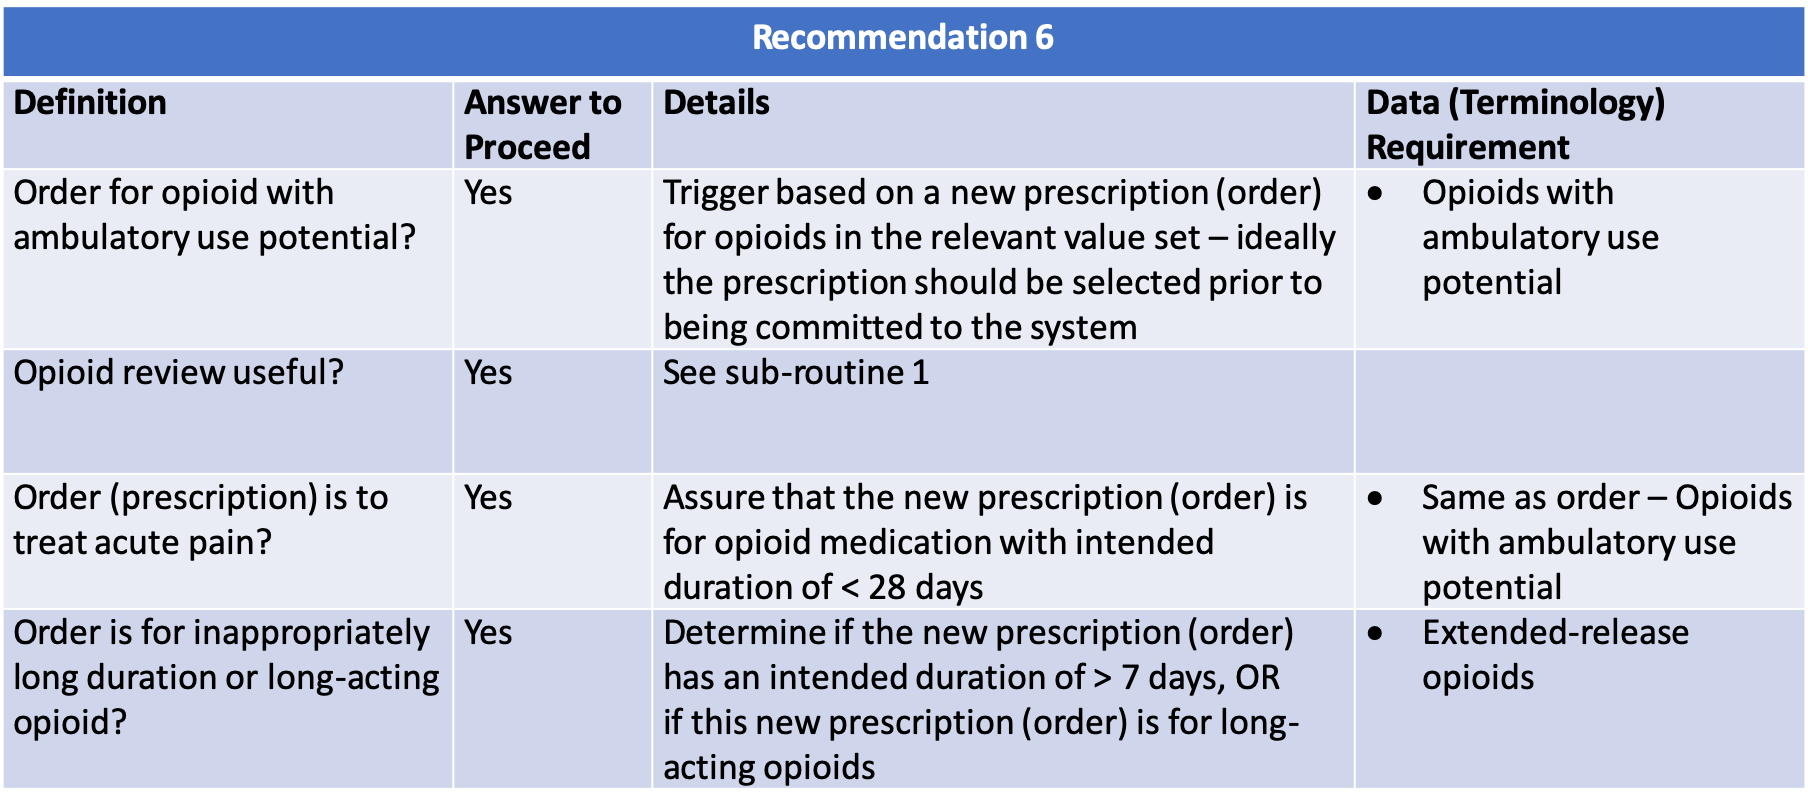
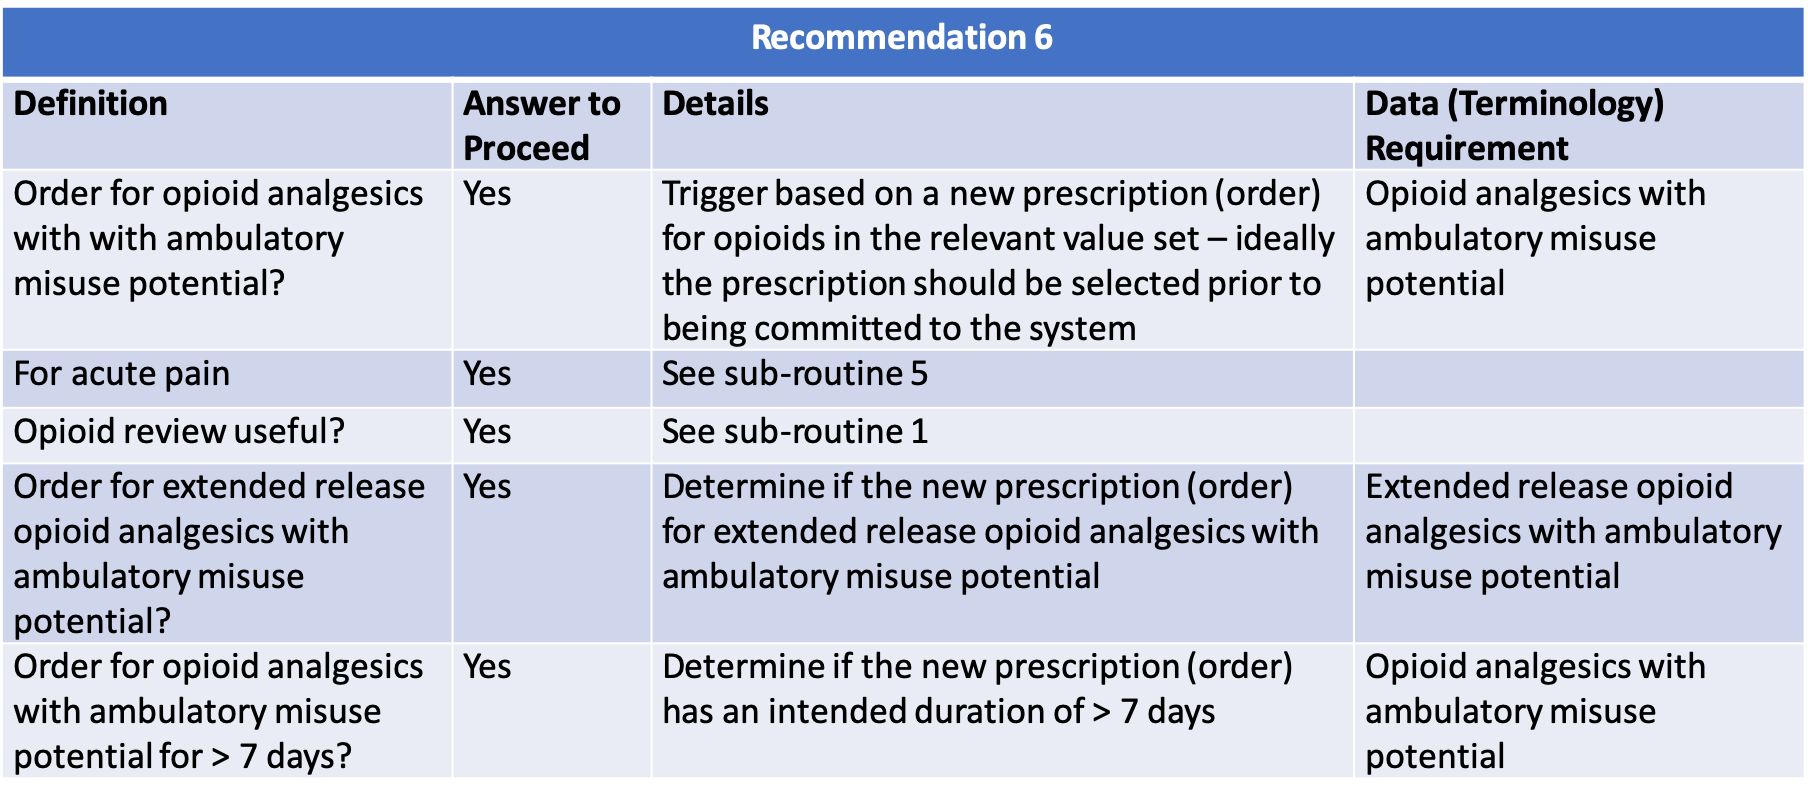
#39: part of the ValueSet references update ... updated functional descriptions, diagrams, and subroutines - included some minor styling changes as well

diff --git a/pages/recommendation-12.html b/pages/recommendation-12.html
@@ -29,9 +29,9 @@
 {% include recommendation12-functional-description.html %}
 
 <p></p>
-<img src="assets/images/Recommendation12-Flow.png" style="max-width: 790px;" />
+<img src="assets/images/Recommendation12-flow.png" style="max-width: 100%;" />
 <p></p>
-<img src="assets/images/Recommendation12-Definitions.png" style="max-width: 790px;" />
+<img src="assets/images/Recommendation12-Definitions.png" style="max-width: 100%;" />
 
 <h4>Rationale for Medication-Assisted Treatment or Behavioral Therapy</h4>
 <table class="list" style="margin-top: 2em; margin-bottom: 2em">

diff --git a/pages/recommendation-01.html b/pages/recommendation-01.html
@@ -29,9 +29,11 @@
 {% include recommendation01-functional-description.html %}
 
 <p></p>
-<img src="assets/images/Recommendation01-Flow.png" style="max-width: 790px;" />
+<img src="assets/images/Recommendation01-flow.png" style="max-width: 100%;" />
 <p></p>
-<img src="assets/images/Recommendation01-Definitions.png" style="max-width: 790px;" />
+<img src="assets/images/Recommendation01-Definitions.png" style="max-width: 100%;" />
+
+{% include for-chronic-pain-definitions.html %}
 
 {% include opioid-review-useful-definitions.html %}
 

diff --git a/pages/recommendation-02.html b/pages/recommendation-02.html
@@ -29,9 +29,11 @@
 {% include recommendation02-functional-description.html %}
 
 <p></p>
-<img src="assets/images/Recommendation02-Flow.png" style="max-width: 790px;" />
+<img src="assets/images/Recommendation02-flow.png" style="max-width: 100%;" />
 <p></p>
-<img src="assets/images/Recommendation02-Definitions.png" style="max-width: 790px;" />
+<img src="assets/images/Recommendation02-Definitions.png" style="max-width: 100%;" />
+
+{% include for-chronic-pain-definitions.html %}
 
 {% include opioid-review-useful-definitions.html %}
 

diff --git a/pages/recommendation-03.html b/pages/recommendation-03.html
@@ -29,9 +29,11 @@
 {% include recommendation03-functional-description.html %}
 
 <p></p>
-<img src="assets/images/Recommendation03-Flow.png" style="max-width: 790px;" />
+<img src="assets/images/Recommendation03-flow.png" style="max-width: 100%;" />
 <p></p>
-<img src="assets/images/Recommendation03-Definitions.png" style="max-width: 790px;" />
+<img src="assets/images/Recommendation03-Definitions.png" style="max-width: 100%;" />
+
+{% include for-chronic-pain-definitions.html %}
 
 {% include opioid-review-useful-definitions.html %}
 

diff --git a/pages/recommendation-06.html b/pages/recommendation-06.html
@@ -29,9 +29,11 @@
 {% include recommendation06-functional-description.html %}
 
 <p></p>
-<img src="assets/images/Recommendation06-Flow.png" style="max-width: 790px;" />
+<img src="assets/images/Recommendation06-flow.png" style="max-width: 100%;" />
 <p></p>
-<img src="assets/images/Recommendation06-Definitions.png" style="max-width: 790px;" />
+<img src="assets/images/Recommendation06-Definitions.png" style="max-width: 100%;" />
+
+{% include for-acute-pain-definitions.html %}
 
 {% include opioid-review-useful-definitions.html %}
 

diff --git a/pages/recommendation-09.html b/pages/recommendation-09.html
@@ -29,9 +29,11 @@
 {% include recommendation09-functional-description.html %}
 
 <p></p>
-<img src="assets/images/Recommendation09-Flow.png" style="max-width: 790px;"/>
+<img src="assets/images/Recommendation09-flow.png" style="max-width: 100%;"/>
 <p></p>
-<img src="assets/images/Recommendation09-Definitions.png" style="max-width: 790px;" />
+<img src="assets/images/Recommendation09-Definitions.png" style="max-width: 100%;" />
+
+{% include for-chronic-pain-definitions.html %}
 
 {% include opioid-review-useful-definitions.html %}
 

diff --git a/pages/recommendation-10.html b/pages/recommendation-10.html
@@ -61,7 +61,14 @@
 <p>Display a message indicating that urine drug testing results are inconsistent with the patient's medication regimen.</p>
 
 <p></p>
-<img src="assets/images/Recommendation10-Flow.png" style="max-width: 790px;" />
+<img src="assets/images/Recommendation10-flow.png" style="max-width: 100%;" />
+<p></p>
+<img src="assets/images/Recommendation10-Definitions.png" style="max-width: 100%;" />
+
+{% include for-chronic-pain-definitions.html %}
+
+{% include opioid-review-useful-definitions.html %}
+
 <p></p>
 <p></p>
 

diff --git a/pages/_includes/opioid-review-useful-definitions.html b/pages/_includes/opioid-review-useful-definitions.html
@@ -1,7 +1,7 @@
 <p></p>
 <h4>Opioid Review Useful</h4>
-<img src="assets/images/Subroutine-OpioidReviewUseful.png" style="max-width: 790px;" />
+<img src="assets/images/OpioidReviewUseful-subroutine.png" style="max-width: 100%;" />
 <p></p>
-<img src="assets/images/Subroutine-OpioidReviewUseful-Definitions.png" style="max-width: 790px;" />
+<img src="assets/images/OpioidReviewUseful-subroutine-definitions.png" style="max-width: 100%;" />
 
 {% include active-cancer-treatment-definitions.html %}

diff --git a/pages/_includes/recommendation12-functional-description.html b/pages/_includes/recommendation12-functional-description.html
@@ -3,6 +3,7 @@
     <ul>
       <li>Patient is 18 years and older and not receiving evidence-based treatment for opioid use disorder, which may include medication treatment with buprenorphine or methadone, or opioid-specific behavioral counseling</li>
       <li>Patient has a diagnosis of opioid use disorder in the past 90 days</li>
+      <li>Patient has an order for or performance of substance misuse behavioral counseling in the past 90 days</li>
     </ul>
   <li>Then</li>
     <ul>

diff --git a/pages/recommendation-05.html b/pages/recommendation-05.html
@@ -74,7 +74,15 @@
 
 <p></p>
 
-<img src="assets/images/Recommendation05-Flow.png" style="max-width: 790px;" />
+<img src="assets/images/Recommendation05-flow.png" style="max-width: 100%;" />
+<p></p>
+<img src="assets/images/Recommendation05-Definitions.png" style="max-width: 100%;" />
+
+{% include for-chronic-pain-definitions.html %}
+
+{% include opioid-review-useful-definitions.html %}
+
+{% include opioid-naive-definitions.html %}
 
 <p></p>
 <p></p>

diff --git a/pages/recommendation-04.html b/pages/recommendation-04.html
@@ -50,7 +50,15 @@
 
 <p></p>
 
-<img src="assets/images/Recommendation04-Flow.png" style="max-width: 790px;"/>
+<img src="assets/images/Recommendation04-flow.png" style="max-width: 100%;"/>
+<p></p>
+<img src="assets/images/Recommendation04-Definitions.png" style="max-width: 100%;" />
+
+{% include for-chronic-pain-definitions.html %}
+
+{% include opioid-review-useful-definitions.html %}
+
+{% include opioid-naive-definitions.html %}
 
 <p></p>
 <p></p>

diff --git a/pages/_includes/active-cancer-treatment-definitions.html b/pages/_includes/active-cancer-treatment-definitions.html
@@ -1,5 +1,5 @@
 <p></p>
 <h4>Active Cancer Treatment</h4>
-<img src="assets/images/Subroutine-ActiveCancerTreatment.png" style="max-width: 790px;" />
+<img src="assets/images/ActiveCancerTreatment-subroutine.png" style="max-width: 100%;" />
 <p></p>
-<img src="assets/images/Subroutine-ActiveCancerTreatment-Definitions.png" style="max-width: 790px;" />
+<img src="assets/images/ActiveCancerTreatment-subroutine-definitions.png" style="max-width: 100%;" />
